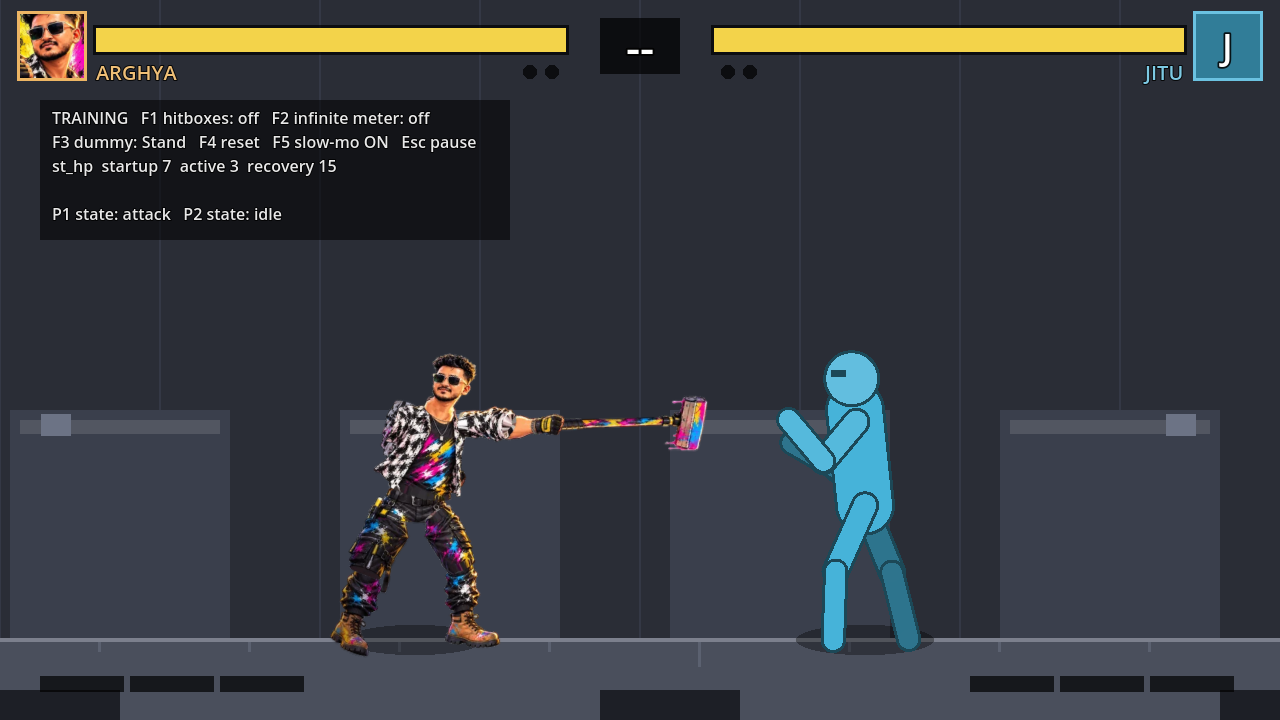
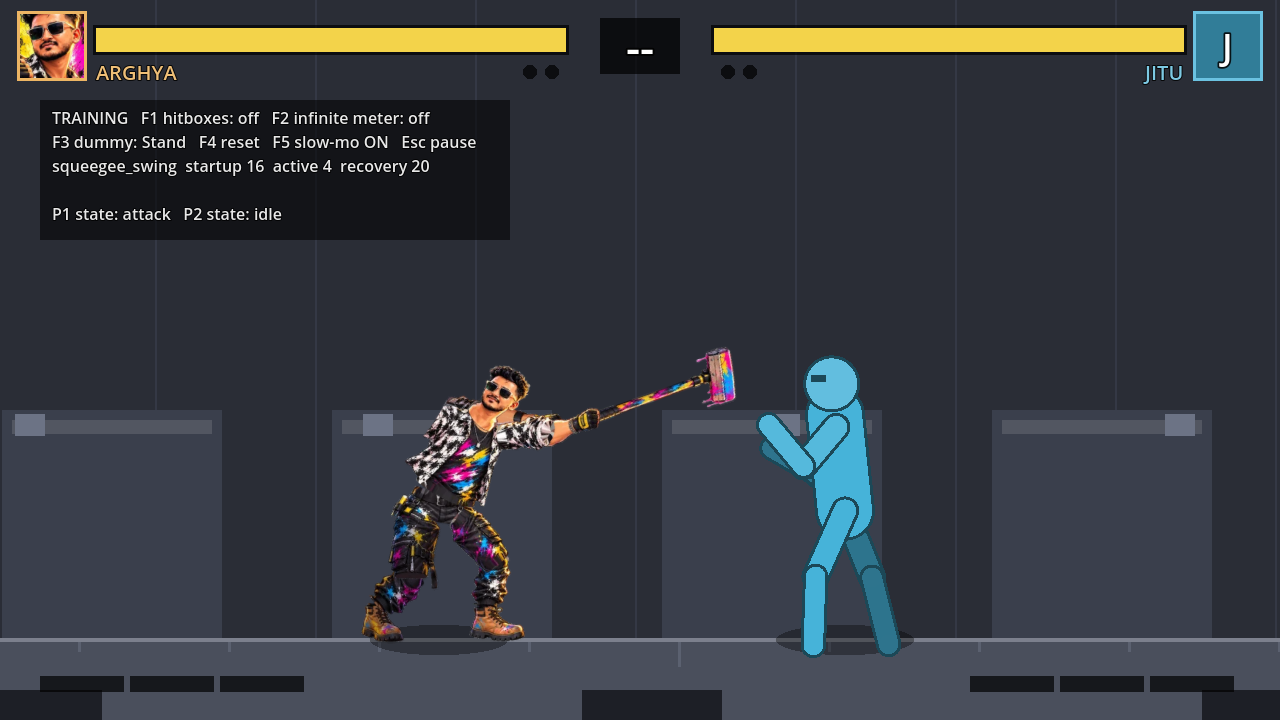
Arghya rig: planted feet, two-handed grip, natural joint bends
- Boots cut from the shin pieces at the ankle; feet near the floor are
  planted flat and 2-bone IK bends the knee to reach them (no sliding,
  sinking or tilting); kicks and jumps keep the posed swing
- Back (left) hand holds the squeegee-hammer below the front hand via
  IK, like the character art; its forearm crosses in front of the chest
  and behind the head; poses without a grip (hit, knockdown, win) let go
- Knees always bend forward, elbows down
- preview_rig.py mirrors the new rig math

Claude-Session: https://claude.ai/code/session_01Ez2xhUCjWjRddAinZbpiug

diff --git a/tools/art/preview_rig.py b/tools/art/preview_rig.py
@@ -61,13 +61,15 @@ class Rig:
         self.cfg = json.load(open(os.path.join(d, "rig.json")))
         self.tex = {k: Image.open(os.path.join(d, p["texture"])).convert("RGBA") for k, p in self.cfg["parts"].items()}
 
-    def draw(self, canvas, feet, pose, bones=False, tint=None):
+    def draw(self, canvas, feet, pose, bones=False):
+        """Same steps as cutout_rig.gd draw(): FK pose, planted feet (IK), two-handed grip (IK)."""
         c = self.cfg
         L, A = c["lengths"], c["anchors"]
         p = pose
         spin = p.get("spin", 0.0)
-        legs = L["leg_upper_F"] + L["leg_lower_F"] + c["sole"]
-        hip_center = (0.0, -(legs - p.get("drop", 0.0)))
+        ank = c["ankle_h"]
+        lt, ls = L["leg_upper_F"], L["leg_lower_F"]
+        hip_center = (0.0, -(lt + ls + ank - p.get("drop", 0.0)))
         pr = math.radians(spin + p["lean"] * 0.3)
         waist = add(hip_center, rot((0, A["hip_F"][1]), pr), -1)
         tr = math.radians(p["lean"] + spin)
@@ -75,68 +77,98 @@ class Rig:
         neck = add(waist, tdir, L["torso"])
         hip_f, hip_b = add(waist, rot(A["hip_F"], pr)), add(waist, rot(A["hip_B"], pr))
         sh_f, sh_b = add(waist, rot(A["shoulder_F"], tr)), add(waist, rot(A["shoulder_B"], tr))
-        joints = []
+        bones_list = []
 
-        def part(name, at, direction):
+        def part(name, at, d, tint=1.0):
             if name not in self.tex:
                 return
             pp = c["parts"][name]
             axis = math.atan2(pp["tip"][1] - pp["pivot"][1], pp["tip"][0] - pp["pivot"][0])
-            ang = math.atan2(direction[1], direction[0]) - axis
+            ang = math.atan2(d[1], d[0]) - axis
             img = self.tex[name]
             s = c["draw_scale"] * SCALE
             img = img.resize((max(1, round(img.width * s)), max(1, round(img.height * s))), Image.LANCZOS)
             piv = (pp["pivot"][0] * s, pp["pivot"][1] * s)
-            # Rotate around the pivot: pad so the pivot is the centre, then rotate.
             w, h = img.size
             R = math.ceil(math.hypot(max(piv[0], w - piv[0]), max(piv[1], h - piv[1]))) + 2
             padded = Image.new("RGBA", (2 * R, 2 * R))
             padded.paste(img, (round(R - piv[0]), round(R - piv[1])))
             padded = padded.rotate(-math.degrees(ang), resample=Image.BICUBIC)
-            if tint:
+            if tint != 1.0:
                 r, g, b, a = padded.split()
-                padded = Image.merge("RGBA", (r.point(lambda v: v * tint), g.point(lambda v: v * tint), b.point(lambda v: v * tint), a))
-            x = feet[0] + at[0] * SCALE - R
-            y = feet[1] + at[1] * SCALE - R
-            canvas.alpha_composite(padded, (round(x), round(y)))
+                f = lambda v: int(v * tint)
+                padded = Image.merge("RGBA", (r.point(f), g.point(f), b.point(f), a))
+            canvas.alpha_composite(padded, (round(feet[0] + at[0] * SCALE - R), round(feet[1] + at[1] * SCALE - R)))
 
-        def limb(name, frm, deg, draw=True, t=None):
-            d = ddir(deg)
-            end = add(frm, d, L[name])
-            if draw:
-                part(name, frm, d) if t is None else part_t(name, frm, d, t)
-            joints.append((frm, end))
-            return end
+        def norm(v):
+            n = math.hypot(*v) or 1.0
+            return (v[0] / n, v[1] / n)
 
-        def part_t(name, at, d, t):
-            nonlocal tint
-            old, tint = tint, t
-            part(name, at, d)
-            tint = old
+        def sub(a, b):
+            return (a[0] - b[0], a[1] - b[1])
 
+        def ik(a, t, l1, l2, knee):
+            d = sub(t, a)
+            dist = min(max(math.hypot(*d), abs(l1 - l2) + 0.01), l1 + l2 - 0.01)
+            off = math.acos(max(-1.0, min(1.0, (l1 * l1 + dist * dist - l2 * l2) / (2 * l1 * dist))))
+            base = math.atan2(d[1], d[0])
+            j1 = add(a, (math.cos(base + off), math.sin(base + off)), l1)
+            j2 = add(a, (math.cos(base - off), math.sin(base - off)), l1)
+            if knee:
+                return j1 if j1[0] > j2[0] else j2
+            return j1 if j1[1] > j2[1] else j2
+
+        def leg(hip, td, sd, l1, l2):
+            knee = add(hip, ddir(td), l1)
+            ankle = add(knee, ddir(sd), l2)
+            if abs(spin) < 30 and ankle[1] > -ank - 26:
+                target = (ankle[0], -ank)
+                knee = ik(hip, target, l1, l2, True)
+                return knee, add(knee, norm(sub(target, knee)), l2), True
+            return knee, ankle, False
+
+        def draw_leg(side, hip, lg, tint):
+            knee, ankle, planted = lg
+            sd = norm(sub(ankle, knee))
+            part("foot_" + side, ankle, (1, 0) if planted else rot(sd, -math.pi / 2), tint)
+            part("leg_lower_" + side, knee, sd, tint)
+            part("leg_upper_" + side, hip, norm(sub(knee, hip)), tint)
+            bones_list.extend([(hip, knee), (knee, ankle)])
+
+        leg_f = leg(hip_f, p["ft"] + spin, p["fs"] + spin, lt, ls)
+        leg_b = leg(hip_b, p["bt"] + spin, p["bs"] + spin, L["leg_upper_B"], L["leg_lower_B"])
+        f_el = add(sh_f, ddir(p["fu"] + spin), L["arm_upper_F"])
+        fist = add(f_el, ddir(p["fl"] + spin), L["arm_lower_F"])
+        tool_dir = ddir(p["fl"] + spin + p.get("to", 100.0))
+        grip = "tool" in self.tex and p.get("grip", 0.0) >= 0.5
+        if grip:
+            target = add(fist, tool_dir, -15.0)
+            b_el = ik(sh_b, target, L["arm_upper_B"], L["arm_lower_B"], False)
+            b_wr = add(b_el, norm(sub(target, b_el)), L["arm_lower_B"])
+        else:
+            b_el = add(sh_b, ddir(p["bu"] + spin), L["arm_upper_B"])
+            b_wr = add(b_el, ddir(p["bl"] + spin), L["arm_lower_B"])
+        bf = norm(sub(b_wr, b_el))
         back = 0.72
-        b_el = limb("arm_upper_B", sh_b, p["bu"] + spin, False)
-        b_wr = limb("arm_lower_B", b_el, p["bl"] + spin, True, back)
-        part_t("hand_B", b_wr, ddir(p["bl"] + spin), back)
-        limb("arm_upper_B", sh_b, p["bu"] + spin, True, back)
-        b_kn = limb("leg_upper_B", hip_b, p["bt"] + spin, False)
-        limb("leg_lower_B", b_kn, p["bs"] + spin, True, back)
-        limb("leg_upper_B", hip_b, p["bt"] + spin, True, back)
+        if not grip:
+            part("arm_lower_B", b_el, bf, back)
+            part("hand_B", b_wr, bf, back)
+        part("arm_upper_B", sh_b, norm(sub(b_el, sh_b)), back)
+        draw_leg("B", hip_b, leg_b, back)
         part("pelvis", waist, rot((0, -1), pr))
-        f_kn = limb("leg_upper_F", hip_f, p["ft"] + spin, False)
-        limb("leg_lower_F", f_kn, p["fs"] + spin)
-        limb("leg_upper_F", hip_f, p["ft"] + spin)
+        draw_leg("F", hip_f, leg_f, 1.0)
         part("torso", waist, tdir)
+        if grip:
+            part("arm_lower_B", b_el, bf, 0.9)
+            part("hand_B", b_wr, bf, 0.9)
         part("head", neck, rot(tdir, math.radians(p["lean"] * 0.4)))
-        f_el = limb("arm_upper_F", sh_f, p["fu"] + spin, False)
-        fist = limb("arm_lower_F", f_el, p["fl"] + spin, False)
-        part("tool", fist, ddir(p["fl"] + spin + p.get("to", 100.0)))
-        limb("arm_lower_F", f_el, p["fl"] + spin)
-        limb("arm_upper_F", sh_f, p["fu"] + spin)
+        part("tool", fist, tool_dir)
+        part("arm_lower_F", f_el, norm(sub(fist, f_el)))
+        part("arm_upper_F", sh_f, norm(sub(f_el, sh_f)))
         if bones:
             dr = ImageDraw.Draw(canvas)
             sc = lambda q: (feet[0] + q[0] * SCALE, feet[1] + q[1] * SCALE)
-            for a, b in joints + [(waist, neck), (hip_center, waist)]:
+            for a, b in bones_list + [(sh_f, f_el), (f_el, fist), (sh_b, b_el), (b_el, b_wr), (waist, neck), (hip_center, waist)]:
                 dr.line([sc(a), sc(b)], fill=(0, 255, 0, 255), width=2)
                 for q in (a, b):
                     x, y = sc(q)

diff --git a/tools/art/build_fighter.py b/tools/art/build_fighter.py
@@ -72,7 +72,7 @@ def main(config_path, preview=False):
     # Joint-to-joint lengths (sheet px), with child pivots moved INSET along their bone.
     def inset_pivot(p):
         (px, py), (tx, ty) = p["pivot"], p["tip"]
-        k = 0.0 if p is parts["torso"] or p is parts["pelvis"] else INSET
+        k = 0.0 if p is parts["torso"] or p is parts["pelvis"] or "sole" in p else INSET
         return [px + (tx - px) * k, py + (ty - py) * k]
 
     def length(p):
@@ -81,13 +81,13 @@ def main(config_path, preview=False):
 
     a = cfg["anchors"]
     pelvis_drop = a["hip_F"][1] - parts["pelvis"]["pivot"][1]
-    shin = parts["leg_lower_F"]
-    sole = math.hypot(shin["sole"][0] - shin["tip"][0], shin["sole"][1] - shin["tip"][1])
+    foot = parts["foot_F"]
+    ankle_h = foot["sole"] - foot["pivot"][1]   # ankle height above the floor (sheet px)
     total = (length(parts["head"]) + length(parts["torso"]) + pelvis_drop
-             + length(parts["leg_upper_F"]) + length(parts["leg_lower_F"]) + sole)
+             + length(parts["leg_upper_F"]) + length(parts["leg_lower_F"]) + ankle_h)
     s = cfg["target_height_px"] / total
     rig = {"id": cfg["id"], "draw_scale": round(s / e, 5), "parts": {}, "anchors": {},
-           "lengths": {}, "sole": round(sole * s, 2),
+           "lengths": {}, "ankle_h": round(ankle_h * s, 2),
            # Where the face is in the portrait (0..1), so cards can crop around it.
            "portrait_focus": cfg["portrait"].get("focus", [0.5, 0.4])}
 
